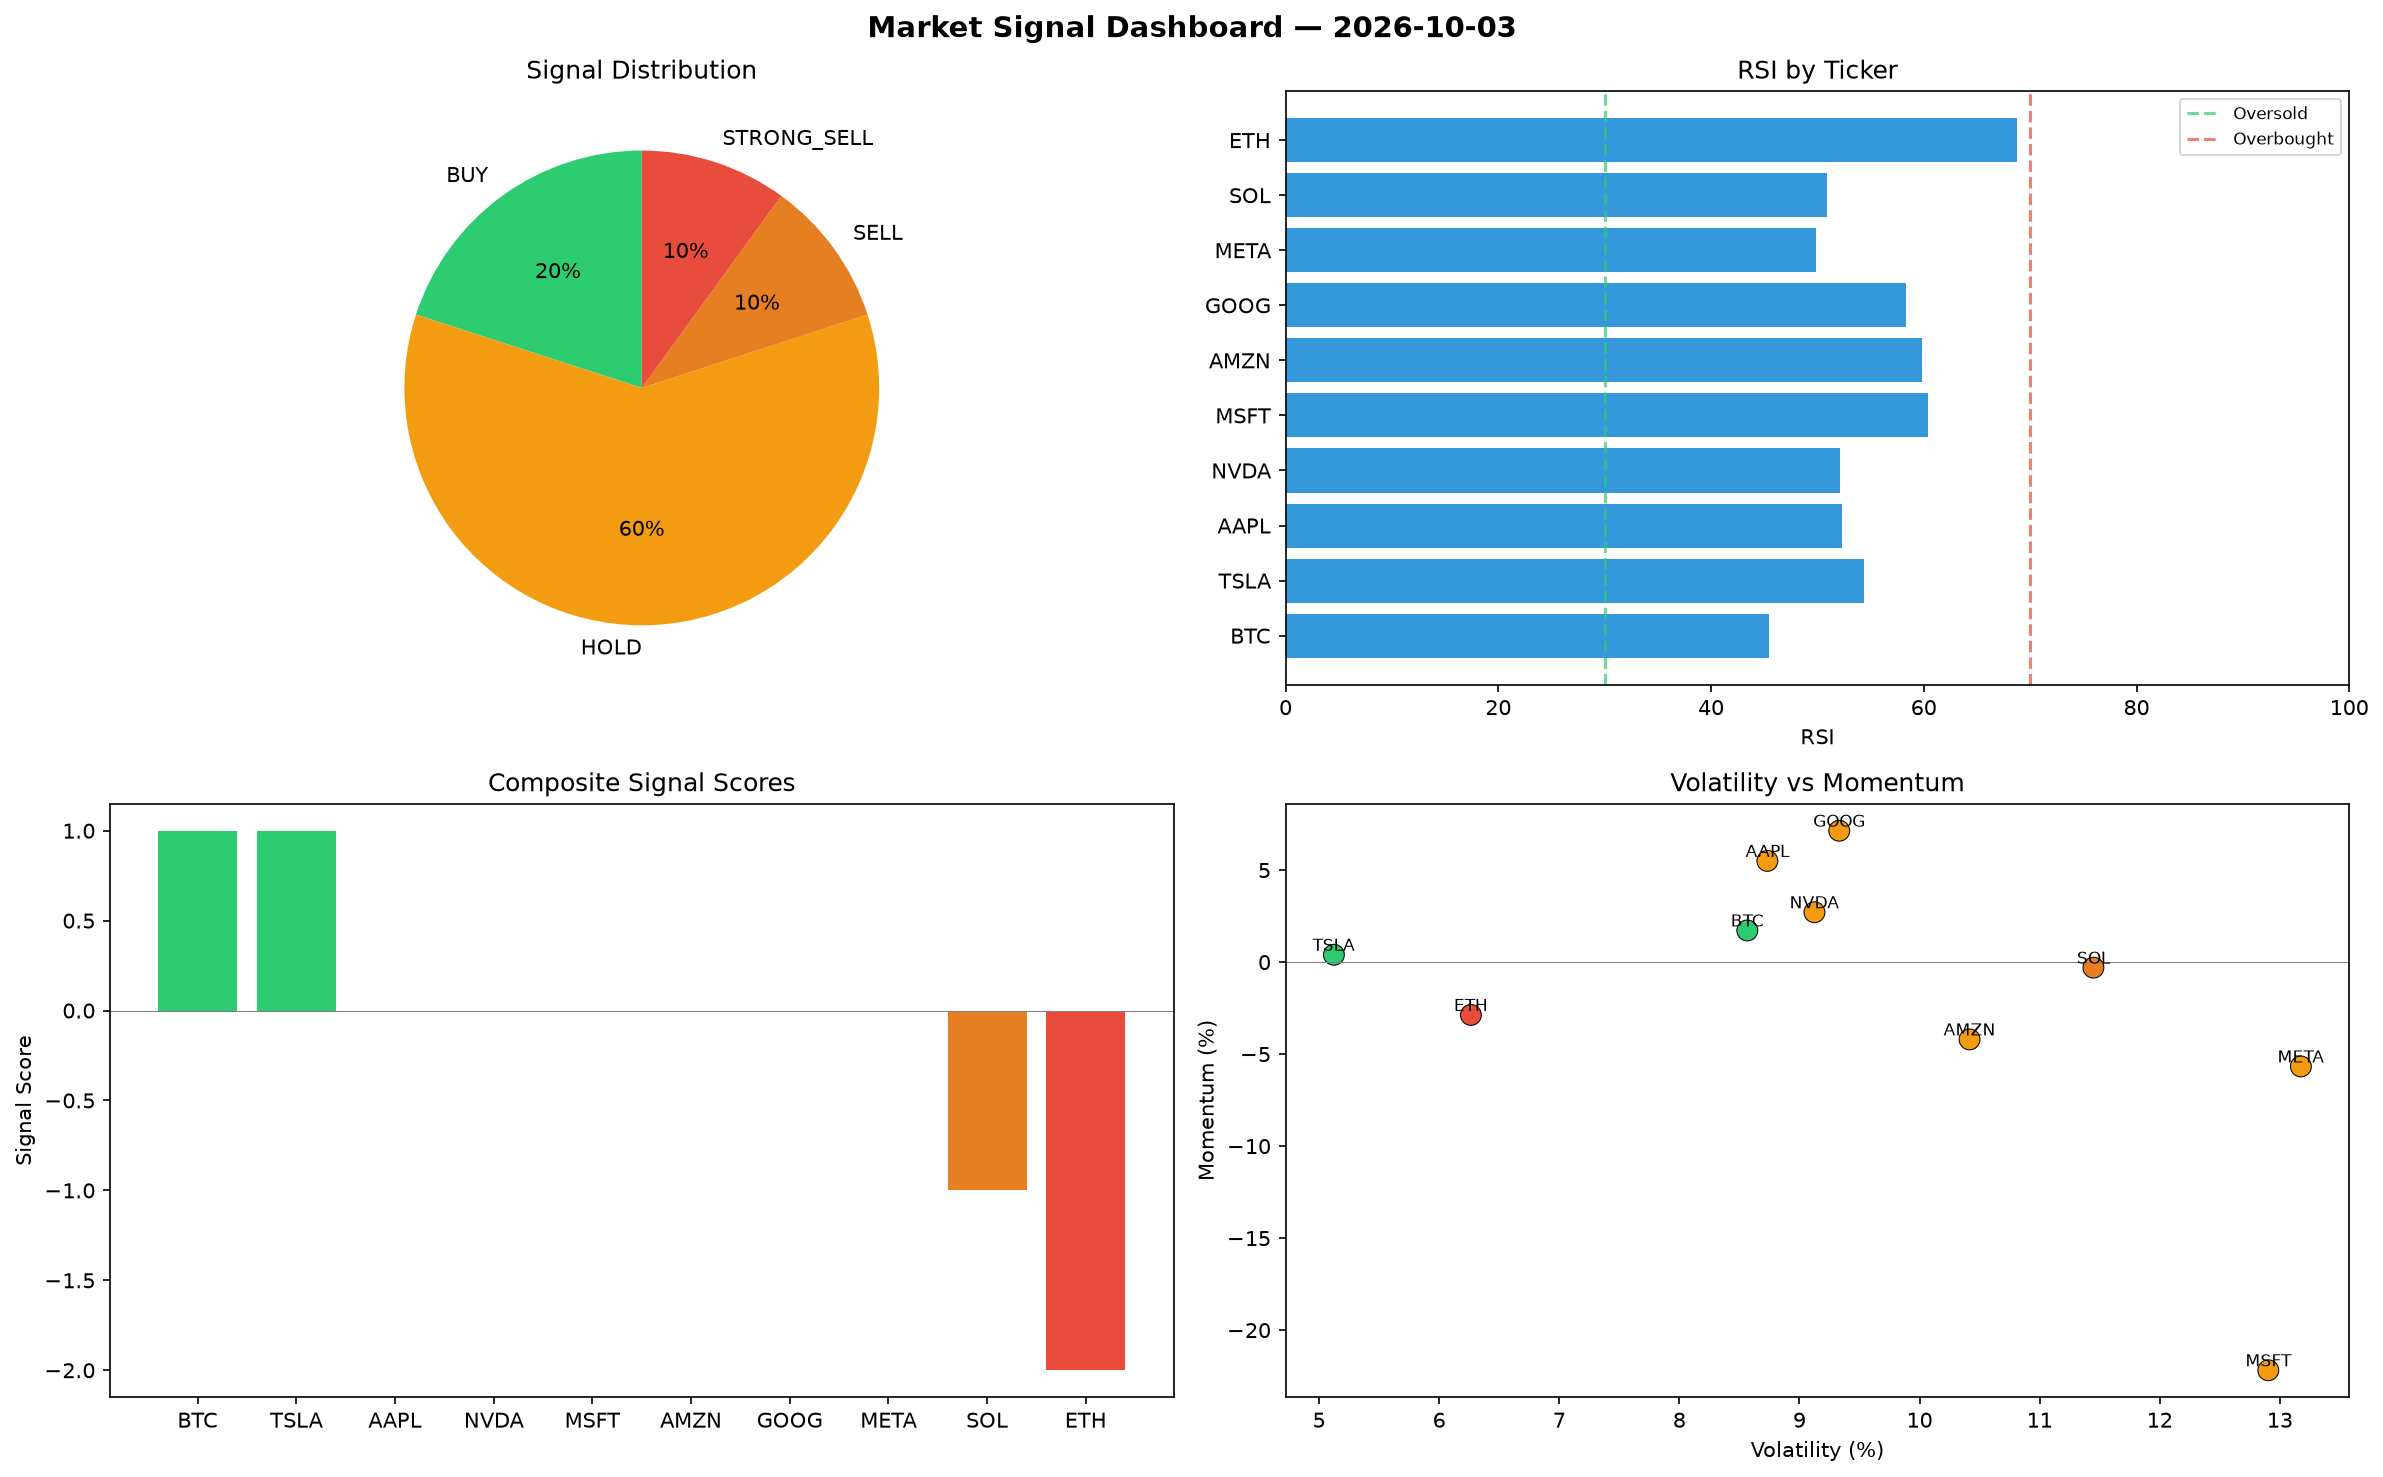
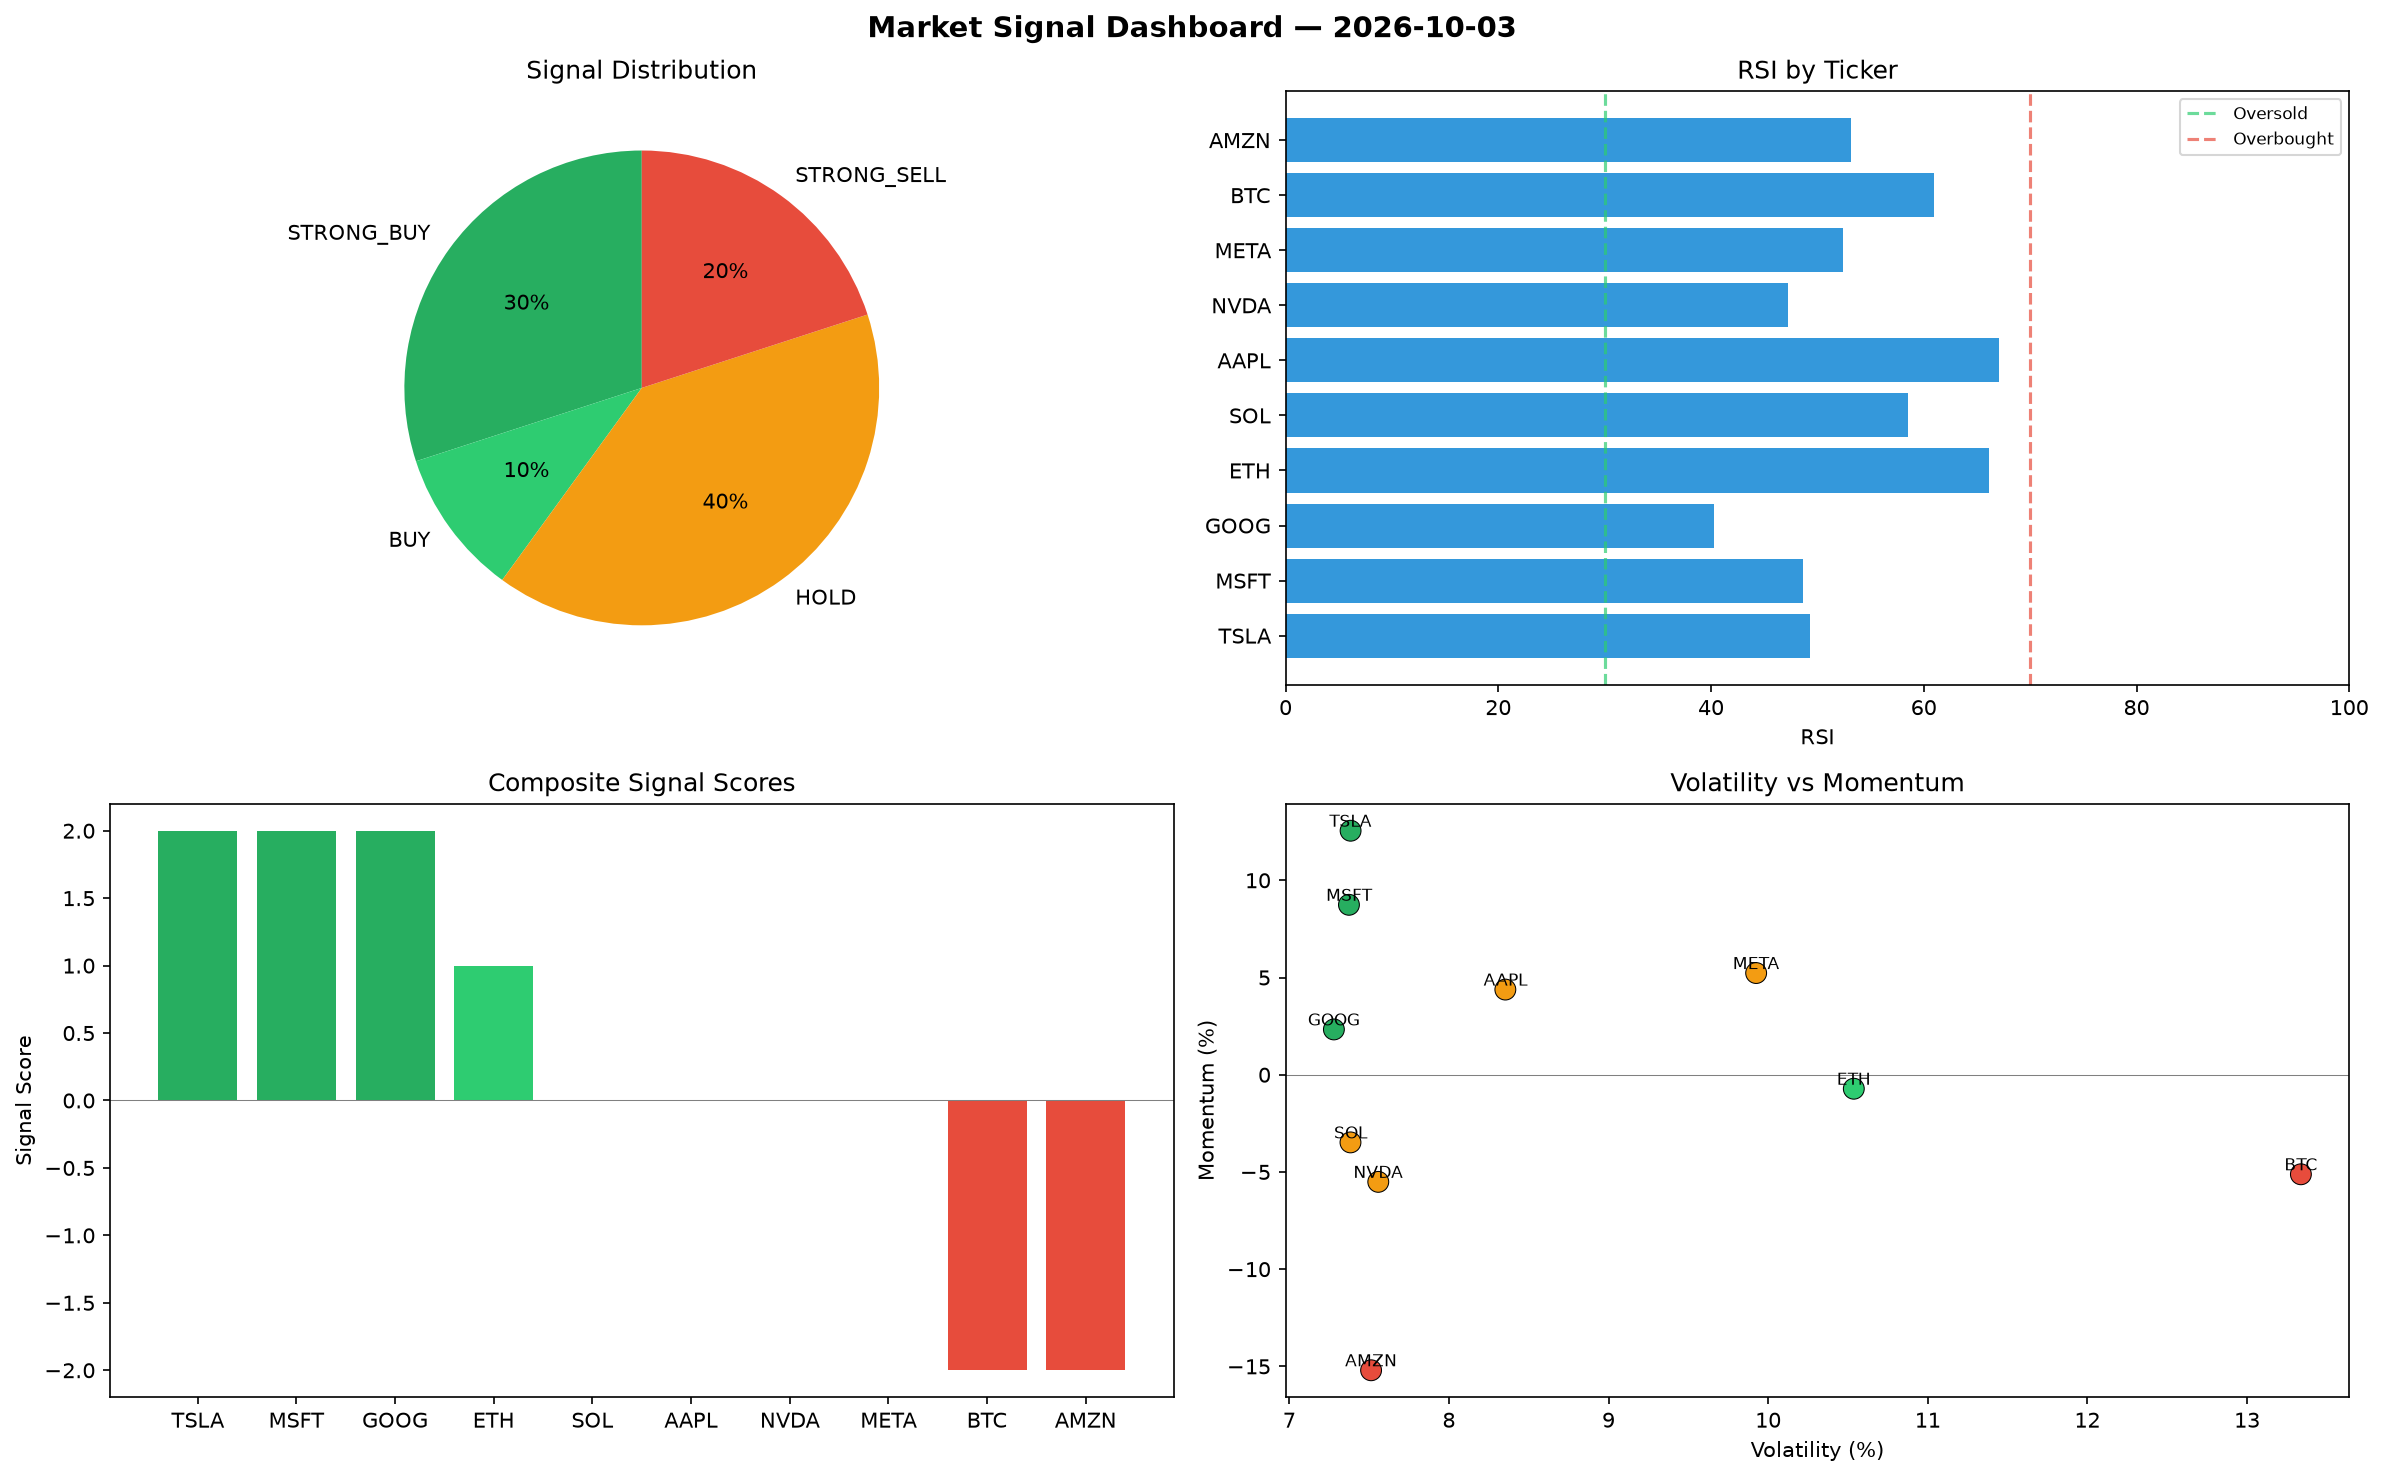
automated-bots: market signals 2026-10-03T18:06

diff --git a/logs/2026-10-03.md b/logs/2026-10-03.md
@@ -1,6 +1,6 @@
 # Market Signal Report — 2026-10-03
 
-**Run ID:** `935cf3e70f` | **Buy:** 2 | **Sell:** 2 | **Hold:** 6
+**Run ID:** `c1153f67d8` | **Buy:** 4 | **Sell:** 2 | **Hold:** 4
 
 ![Dashboard](2026-10-03_dashboard.png)
 
@@ -8,28 +8,28 @@
 
 | Ticker | Price | Signal | Score | RSI | Momentum | Confidence |
 |--------|-------|--------|-------|-----|----------|------------|
-| BTC | $3922.4 | **BUY** | 1 | 45.49 | 0.0172 | 0.25 |
-| TSLA | $1689.01 | **BUY** | 1 | 54.4 | 0.004 | 0.25 |
-| AAPL | $5049.68 | **HOLD** | 0 | 52.35 | 0.055 | 0.0 |
-| NVDA | $4213.01 | **HOLD** | 0 | 52.15 | 0.0271 | 0.0 |
-| MSFT | $1669.96 | **HOLD** | 0 | 60.43 | -0.2218 | 0.0 |
-| AMZN | $3914.98 | **HOLD** | 0 | 59.82 | -0.042 | 0.0 |
-| GOOG | $1304.3 | **HOLD** | 0 | 58.3 | 0.0714 | 0.0 |
-| META | $1578.84 | **HOLD** | 0 | 49.88 | -0.0567 | 0.0 |
-| SOL | $2689.8 | **SELL** | -1 | 50.94 | -0.003 | 0.25 |
-| ETH | $4994.18 | **STRONG_SELL** | -2 | 68.73 | -0.0287 | 0.5 |
+| TSLA | $154.39 | **STRONG_BUY** | 2 | 49.35 | 0.1255 | 0.5 |
+| MSFT | $2081.62 | **STRONG_BUY** | 2 | 48.6 | 0.0874 | 0.5 |
+| GOOG | $4319.94 | **STRONG_BUY** | 2 | 40.29 | 0.0233 | 0.5 |
+| ETH | $1641.08 | **BUY** | 1 | 66.09 | -0.0072 | 0.25 |
+| SOL | $3278.16 | **HOLD** | 0 | 58.5 | -0.0348 | 0.0 |
+| AAPL | $2439.5 | **HOLD** | 0 | 67.1 | 0.0438 | 0.0 |
+| NVDA | $4582.68 | **HOLD** | 0 | 47.27 | -0.0551 | 0.0 |
+| META | $4235.74 | **HOLD** | 0 | 52.41 | 0.0523 | 0.0 |
+| BTC | $922.95 | **STRONG_SELL** | -2 | 60.96 | -0.0512 | 0.5 |
+| AMZN | $3977.37 | **STRONG_SELL** | -2 | 53.12 | -0.152 | 0.5 |
 
 ## Delta vs Yesterday
 
 | Ticker | Today | Yesterday | Price Change | Signal Changed |
 |--------|-------|-----------|-------------|----------------|
-| BTC | BUY | STRONG_SELL | 📈 147.93% | ⚠ YES |
-| TSLA | BUY | HOLD | 📉 -59.98% | ⚠ YES |
-| AAPL | HOLD | STRONG_BUY | 📈 813.14% | ⚠ YES |
-| NVDA | HOLD | HOLD | 📉 -8.89% | — |
-| MSFT | HOLD | BUY | 📉 -51.65% | ⚠ YES |
-| AMZN | HOLD | STRONG_BUY | 📈 534.49% | ⚠ YES |
-| GOOG | HOLD | HOLD | 📉 -74.45% | — |
-| META | HOLD | SELL | 📉 -61.05% | ⚠ YES |
-| SOL | SELL | STRONG_SELL | 📈 179.79% | ⚠ YES |
-| ETH | STRONG_SELL | HOLD | 📈 2388.38% | ⚠ YES |
+| TSLA | STRONG_BUY | HOLD | 📉 -96.34% | ⚠ YES |
+| MSFT | STRONG_BUY | BUY | 📉 -39.73% | ⚠ YES |
+| GOOG | STRONG_BUY | HOLD | 📉 -15.38% | ⚠ YES |
+| ETH | BUY | HOLD | 📈 717.68% | ⚠ YES |
+| SOL | HOLD | STRONG_SELL | 📈 240.99% | ⚠ YES |
+| AAPL | HOLD | STRONG_BUY | 📈 341.14% | ⚠ YES |
+| NVDA | HOLD | HOLD | 📉 -0.89% | — |
+| META | HOLD | SELL | 📈 4.5% | ⚠ YES |
+| BTC | STRONG_SELL | STRONG_SELL | 📉 -41.66% | — |
+| AMZN | STRONG_SELL | STRONG_BUY | 📈 544.6% | ⚠ YES |
